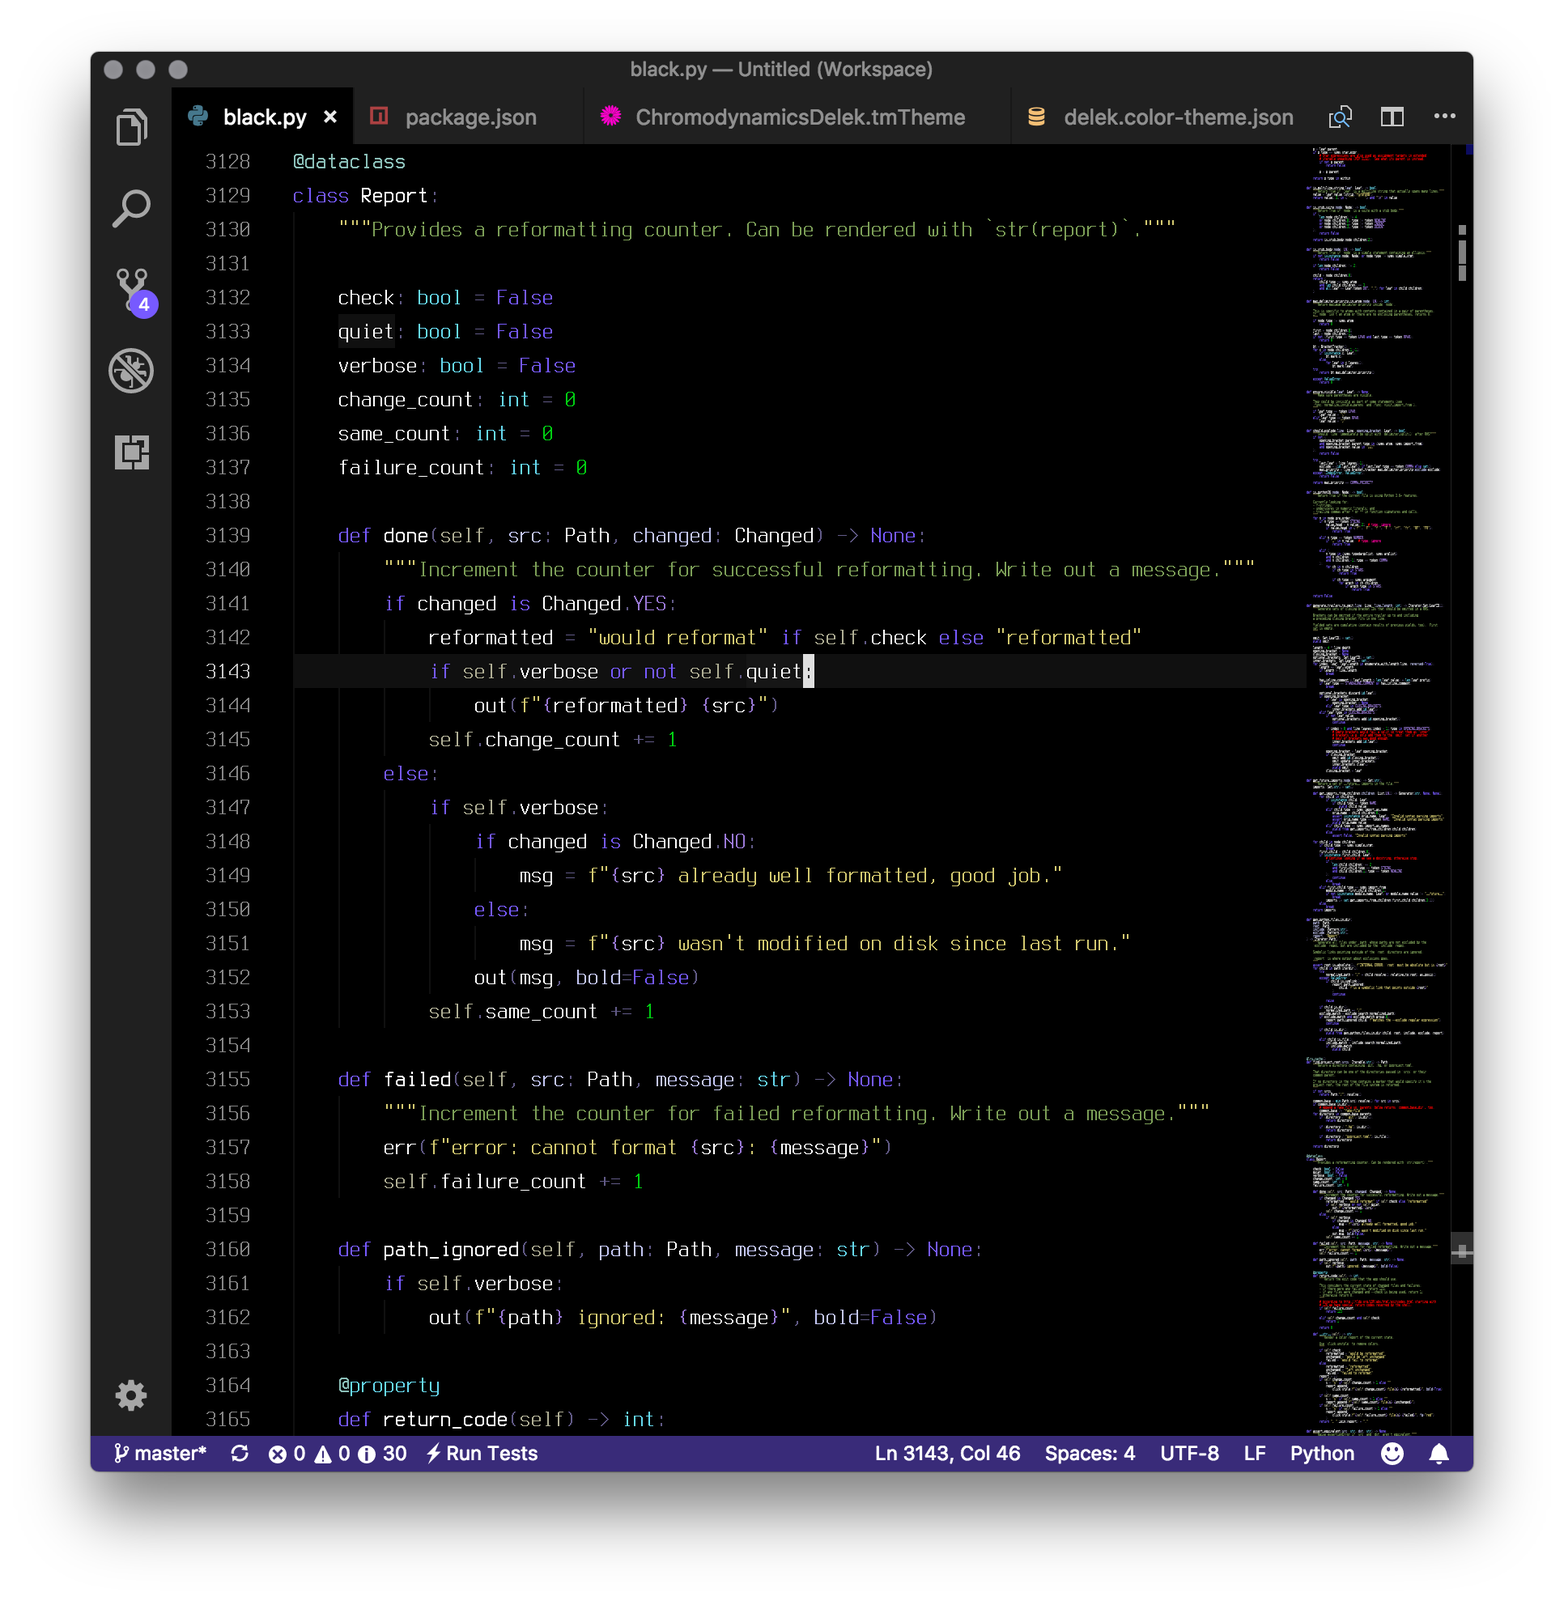
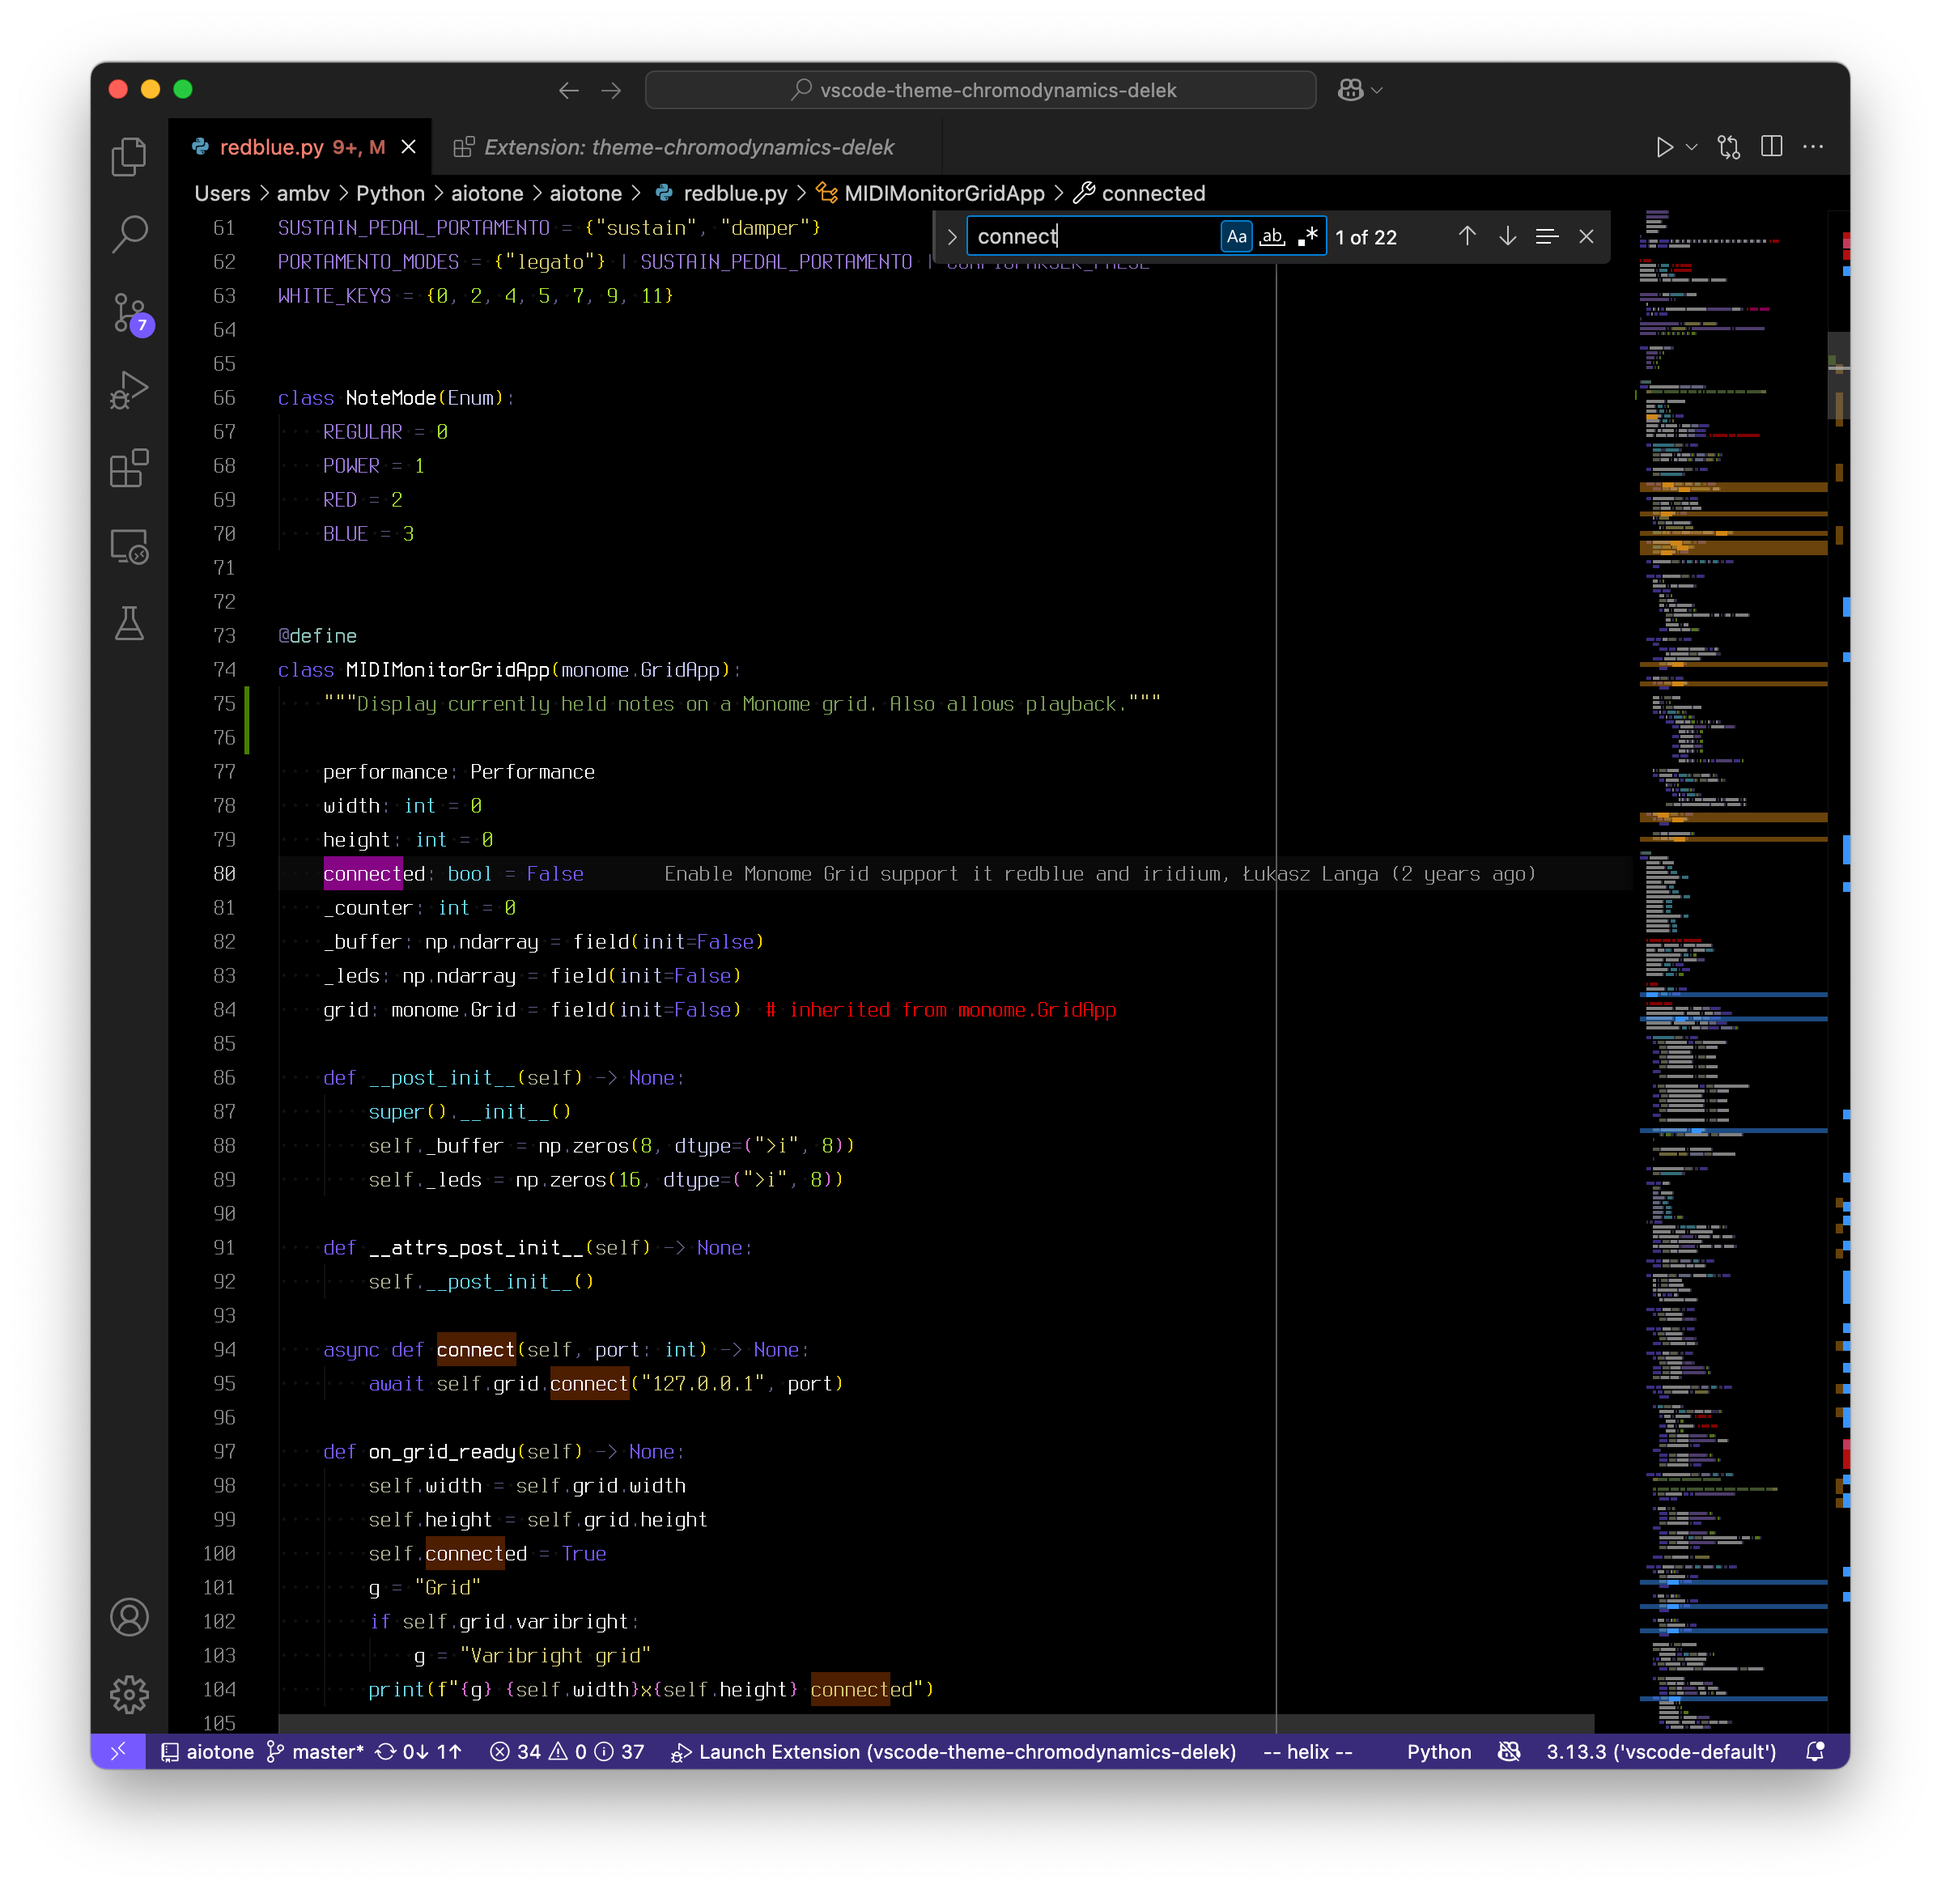
v1.1.0

diff --git a/README.md b/README.md
@@ -6,6 +6,16 @@ This is a theme for VSCode that's somewhere between [chromodynamics](https://git
 
 ## Changes
 
+### 1.1.0
+
+* selections are colored
+* find/replace matches have more pronounced background
+* regular Python string interpolations like `{}` are muted to differentiate
+  them from f-string interpolations
+* f-string prefix and quotes are saturated a bit to highlight they're
+  f-strings
+* number color a bit more lime
+
 ### 1.0.1
 
 * bold and italic markup actually uses bold and italic fonts
